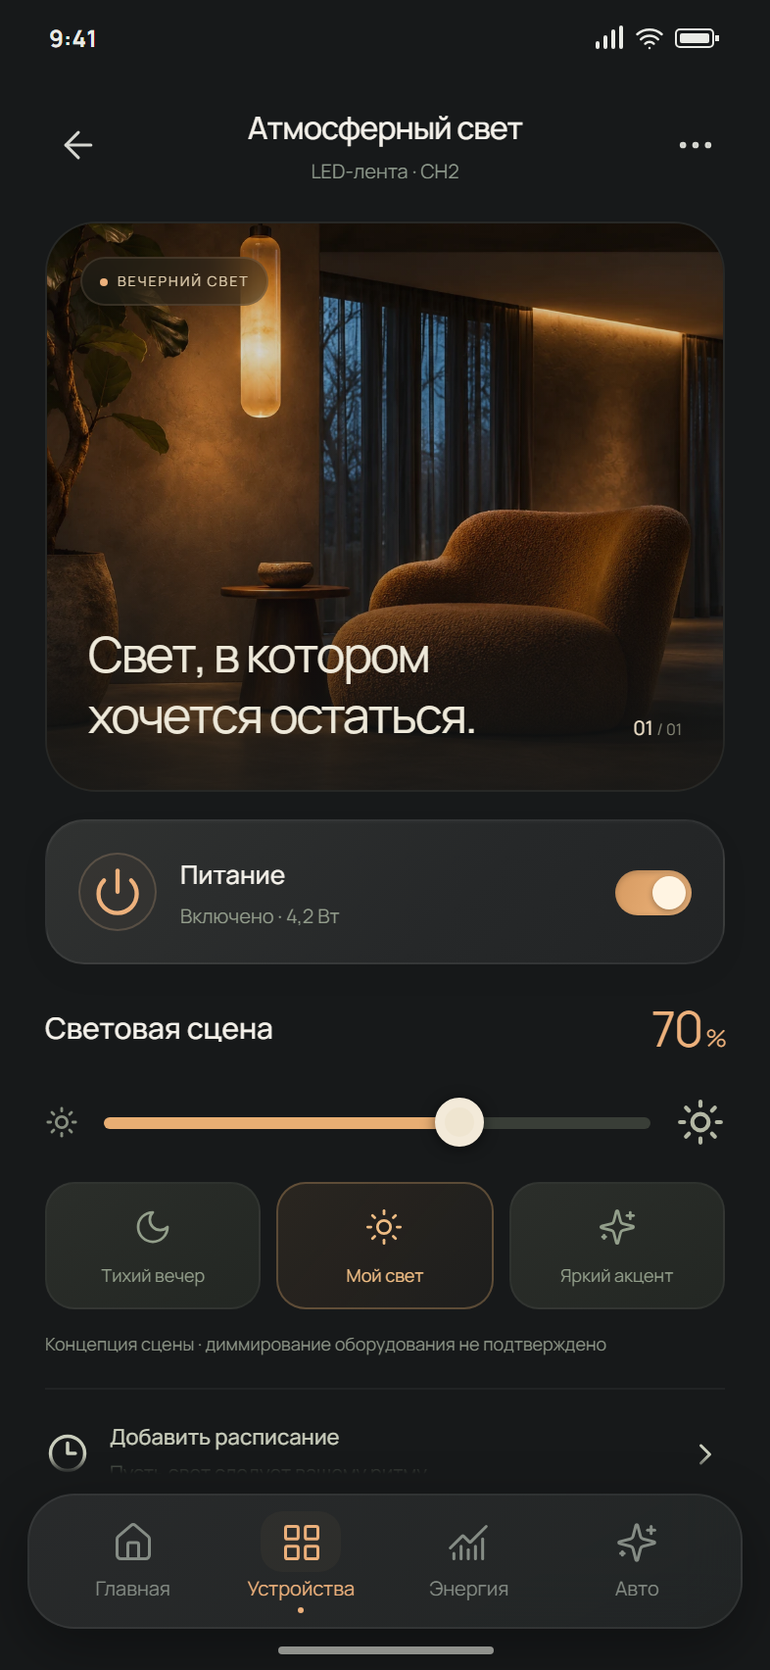
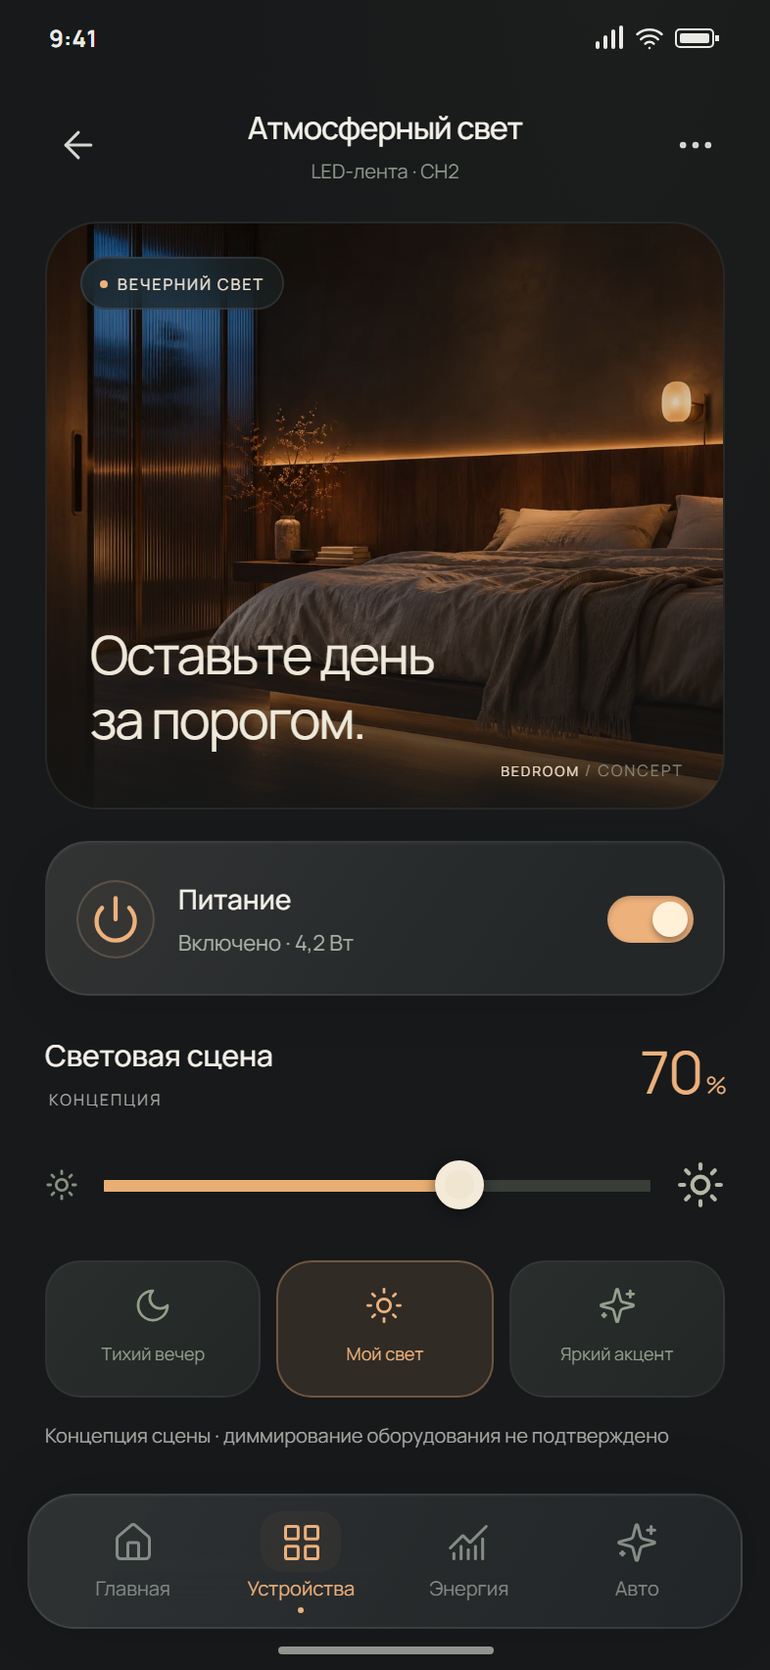
docs: retain V3 screenshots, provenance and honest platform boundaries

Changed region(s): [[0.0611, 0.1244, 0.9466, 0.8709], [0.7023, 0.7154, 0.855, 0.8709], [0.4275, 0.5599, 0.458, 0.591]]

diff --git a/docs/VERIFICATION.md b/docs/VERIFICATION.md
@@ -1,20 +1,41 @@
-# Delivery verification — 10 November 2026 (Asia/Bishkek)
+# Experience V3 verification — 10 November 2026, Asia/Bishkek
 
-Published app commit: `e51984f`. Successful GitHub Pages run: https://github.com/t1ktakdev/specwatt-experience/actions/runs/42684308003
+Stable starting point: `0623f3e`. Worktree: `SpecWATT-Experience-v3`, branch `codex/experience-v3`. The original SpecWATT repository and its Android application were read only.
 
-## Executed checks
+## QA 1 — Visual fidelity: completed locally
 
-- TypeScript and production Vite build: passed locally and on GitHub.
-- 6 domain tests: passed, including CH3 immutability, load-limit rejection, unknown connection states and coherent illustrative energy totals.
-- 12 routes at 320 / 393 / 440 CSS px: no checked horizontal overflow or JavaScript errors.
-- Browser scenarios: switching, blocked overload, unknown power offline, disabled commands, loading/error, scene presets, period changes, consent, saved/reloaded/deleted schedules and demo setup.
-- axe WCAG A/AA rules on the initial rendered view of all 12 routes: no reported violations after correcting three text contrast issues. This is not a claim of complete WCAG certification or manual screen-reader coverage.
-- Public deployment: HTTP 200, bundled Manrope loaded, interior image decoded, no HTTP failures or page errors; interaction smoke checks passed. See `live-verification.json`.
+Inspected the actual supplied Nahidul Islam and Sheikh Naeem reference images and real headless Chromium screenshots of all 12 routes. Preserved Warm Graphite / Ambient Amber and Manrope; refined surfaces, object scale, card hierarchy and touch controls. Corrected excessive Home / Analytics height, the planner empty-state density and catalogue caption tracking after visual inspection. Long-screen lower sections are captured separately. Subjective design review is not a claim of pixel identity to the references.
 
-## Visual passes
+## QA 2 — Asset diversity: passed
 
-1. Layout: inspected real headless-browser screenshots, corrected navigation overlap in analytics; confirmed three consumption rows visible at the primary mobile size.
-2. Craft: increased service text sizes, desaturated excess green in secondary screens, shortened the autopilot hero to expose the schedule action, corrected contrast and precise kWh formatting.
-3. Reference comparison: visually compared the four-screen composition with the supplied references for atmosphere, light, scale, hierarchy, photographic balance and surface depth. Final screenshots were taken after fixes, with finite animations fast-forwarded for deterministic capture.
+Welcome: unique architecture. Lighting: different bedroom and lighting composition. Home: dedicated SVG object. Three hero sources decode successfully and are distinct; no screen references the retained V1 `ambient-room.webp`. Small cards use SVG icons. Responsive WebP outputs: 63,940 / 69,372 bytes at 960w, 15,170 / 17,312 bytes at 480w. Provenance is in `ASSETS.md`; reference authors' artwork is not shipped. Sixteen exported/product SVG files parsed successfully as XML.
 
-The published preview remains a web prototype. No Figma import, physical ESP32 test, native Android validation or Kyrgyz localization is claimed. The official original SpecWATT repository was read but not edited.
+## QA 3 — Function and safety: passed
+
+- 12 Node unit tests, zero failures, no skips. New guards were first exercised by failing tests before implementation.
+- CH1 / CH2 / CH3 remain 1.8 / 4.2 / 2.4 W, limit 7 W. CH3 has no switch or schedule option.
+- Browser tests cover rejected 8.4 W load, unchanged power after rejection, valid switching, unknown connection states and disabled commands.
+- V3 tests cover editor/save/reload/pause, schedule load calculation and conflict refusal; final consent revocation; journal refusal event; keyboard chart selection; persisted reduced motion; unavailable real pairing and absence of controller network requests.
+- Plans are stored locally and never execute. Autopilot sends no background commands. Lighting brightness is a visual concept.
+
+## QA 4 — Figma ↔ code parity: NOT PERFORMED
+
+Direct plugin `whoami`: `MCP tool codex_apps/figma.whoami is not available to the model` (`isError: true`). Separately registered `figma-remote` failed initialization: `Auth required, when send initialize request`.
+
+No authenticated plan/file was resolved. No Figma file, edit, screenshot, import or parity result is claimed. `COMPONENT-MAP.md`, generated tokens and `design-export/` preserve a concrete transfer path. Code layers alone would not satisfy editable Design layer requirements.
+
+## QA 5 — Product validation: local passed; publication check pending
+
+- `npm run build`: TypeScript + generated tokens + production Vite build passed.
+- `npm run typecheck`, `npm run lint`, `npm test`: passed. Lint here is Prettier formatting, not an ESLint ruleset.
+- `node tools/qa.mjs`: 12 routes × 320 / 393 / 440 CSS px; no checked horizontal overflow or page errors. First pass found journal filter overflow at 320 px; fixed, final pass zero findings.
+- `node tools/qa-v3.mjs`: all seven extended scenario groups passed, zero console/page errors and HTTP failures.
+- `node tools/accessibility.mjs`: axe WCAG A/AA checks on the initial view of 12 routes, zero reported violations. No full WCAG certification or manual screen-reader claim.
+- `node tools/capture.mjs ...`: actual route screenshots, lower-content views, four-screen and 12-screen overview. Asset decode and bundled Manrope verified in the browser.
+- Published-site checks will be recorded after the release deployment completes. Local build is not treated as public verification.
+
+## Android scope
+
+Five actual native screen sources, native controls, safe-area shell, SVG instrument and guarded local hook were adapted in `native/`; TypeScript passed against installed React Native 0.88 / React 19.3 / safe-area / SVG definitions. The original app is not modified. No Metro bundle, APK, emulator/device rendering, native screen-reader test or fontScale 1.0 / 1.3 / 1.5 proof exists. Remaining native routes, Expo Router integration, persistence and real transport are explicitly pending.
+
+Kyrgyz localization, hardware telemetry, controller acknowledgements, tariff calculations and timed execution remain unimplemented in this Experience repository.

diff --git a/README.md b/README.md
@@ -1,13 +1,14 @@
-# SpecWATT — Energy, considered.
+# SpecWATT Experience V3 — Energy, considered.
 
 A standalone, interactive mobile experience in React + TypeScript. Warm graphite, ambient amber, original interior imagery, local Manrope fonts and real SVG iconography. Built separately from the original SpecWATT application.
 
-**Web prototype. No Figma file has been created or imported. No hardware is connected.**
+**Working web prototype + isolated native UI sources. No Figma file has been created or imported. No hardware is connected; no APK has been built.**
 
 ## Open
 
 - Published prototype: https://t1ktakdev.github.io/specwatt-experience/
 - Four-screen overview: https://t1ktakdev.github.io/specwatt-experience/?gallery
+- All 12 screens: https://t1ktakdev.github.io/specwatt-experience/?gallery=all
 - Open a screen directly with `#home`, `#lighting`, `#energy`, etc.
 
 ## Run locally
@@ -27,7 +28,12 @@ npm run build
 npx playwright install chromium
 node tools/qa.mjs
 node tools/accessibility.mjs
+node tools/qa-v3.mjs
 node tools/verify-live.mjs
+npm run lint
+npm run export:vectors
+npm ci --prefix native --ignore-scripts
+npm run typecheck --prefix native
 ```
 
 The browser checks use a separate, headless Chromium process. They never control the user's browser or desktop. `artifacts/` contains generated screenshots and QA evidence and is ignored by Git.
@@ -40,18 +46,22 @@ The browser checks use a separate, headless Chromium process. They never control
 - CH3 is always protected; there is no switch or schedule option.
 - 8.4 W simultaneous load is rejected against the 7 W demo limit.
 - Autopilot requires explicit channel consent. It sends no background commands.
-- Schedules can be added, toggled, deleted and retained in localStorage. They do not execute.
+- Schedules can be added, edited, toggled, deleted and retained in localStorage. The timeline uses their nominal loads and rejects overlaps above 7 W. They do not execute.
 - The scene dimmer changes the image presentation only. Hardware dimming is not confirmed.
 - Energy periods and graph selection are interactive. All history and comparisons are demo values; no actual tariff or savings claims.
-- Setup demonstrates the connection flow and does not send requests to the entered address.
-- The event journal records local prototype actions for the current session.
+- Setup distinguishes demo and real-controller paths. Hardware pairing is explicitly unavailable; no requests are sent to the entered address.
+- The event journal records local switches, overload refusals, consent and schedule actions for the current session.
 - All persistence is local to the browser. No analytics, accounts or remote telemetry.
 
 ## Source & handoff
 
-Reusable components live in `src/components/`, screen modules in `src/screens/`, domain guards in `src/model.ts`, context in `src/state/`. `design-tokens.json` documents the semantic palette, type ramp, radii, spacing and motion. Editable source assets include SVG charts, icons and product illustration; the only bitmap UI asset is the original interior image.
+Reusable components live in `src/components/`, screen modules in `src/screens/`, domain guards in `src/model.ts`, schedule validation in `src/lib/planner.ts`, context in `src/state/`. `design-tokens.json` generates `src/tokens.css` and `native/tokens.ts` during build. Welcome and Lighting use distinct original interiors; Home uses a dedicated SVG object. `design-export/` contains editable icons and product vectors rendered from actual components.
+
+`native/` contains five adapted React Native screens, shared controls and a guarded local demo hook for the existing Expo 58 / RN 0.88 stack. These sources pass TypeScript checks but are not integrated, bundled or device-validated. See `native/README.md` and `docs/COMPONENT-MAP.md` for the actual boundary and transfer mapping.
 
 `DESIGN.md` records the reference principles, confirmed product scope and documented Figma import routes. With an authorized official Figma MCP connection, capture the published screen routes using Code to canvas, then add component instances, auto-layout and variable bindings with `use_figma`. A browser capture alone does not produce a fully componentized Figma design system.
+
+V3 technical check: plugin `whoami` returns `MCP tool codex_apps/figma.whoami is not available to the model`; separately registered `figma-remote` fails initialization with `Auth required, when send initialize request`. Figma parity QA remains unperformed.
 
 See `ASSETS.md` and `licenses/` for asset provenance.
 

diff --git a/DESIGN.md b/DESIGN.md
@@ -2,6 +2,20 @@
 
 Самостоятельный интерактивный веб-прототип, не обновление React Native приложения и не Figma-файл.
 
+V3 развивает исходную версию `0623f3e`, сохраняя маршруты и поведение. Добавлен изолированный набор исходников React Native в `native/`; основной Android-проект не изменён. Он не считается готовым приложением или проверенной нативной копией.
+
+## V3 / производственные изменения
+
+- Welcome: отдельный архитектурный холл, бронзовый свет и травертин; эмоциональный порог продукта.
+- Home: инструмент мощности, явный резерв, SVG-объект вместо повторной фотографии, номиналы в карточках.
+- Lighting: самостоятельная спальня и световая архитектура; концептуальная яркость отделена от питания канала.
+- Energy: согласованные единицы, выбор интервала с клавиатуры, доли каналов и приблизительные объёмы. Неподтверждённое сравнение экономии удалено.
+- Devices / Detail / CH3: каталог, отдельный предметный вектор, история канала и самостоятельный язык защиты.
+- Autopilot / Planner: явное разрешение, пример предполагаемого правила, редактирование плана и расчёт пересечений. Фоновых команд нет.
+- Journal / Setup / Settings: типы событий, реальные действия текущей сессии, разные пути демо и контроллера, постоянная настройка уменьшения движения и видимый блок безопасности.
+
+Основные цвета, радиусы и типографическая шкала исходят из `design-tokens.json`. `npm run tokens` создаёт CSS и native-спецификацию. `docs/COMPONENT-MAP.md` фиксирует сопоставление, включая ещё не созданные Figma-назначения.
+
 ## Дизайн-контракт
 
 1. Четыре основных экрана имеют разные смысловые центры: интерьер, текущая мощность, световая сцена, график энергии.
@@ -33,4 +47,4 @@
 - https://developers.figma.com/docs/figma-mcp-server/remote-server-installation/ — официальный endpoint https://mcp.figma.com/mcp, требуется авторизация поддерживаемого клиента.
 - https://developers.figma.com/docs/rest-api/ — REST не предоставляет универсальный create/edit API для узлов холста.
 
-В этой сессии инструменты приложения Figma недоступны. Локальная конфигурация содержит figma-remote, но сервер не подключён к инструментам текущей сессии (unknown MCP server). Авторизация не запускалась, браузер не открывался. Старый файл YZ6V1EF1KWJ8QnOIFYemXk не изменён. Прототип не считается импортированным в Figma.
+Повторная техническая проверка V3: прямой `whoami` подключённого плагина вернул `MCP tool codex_apps/figma.whoami is not available to the model`. Отдельный `figma-remote` зарегистрирован, но инициализация завершилась ошибкой `Auth required, when send initialize request`. Создание, редактирование и получение снимков Figma не подтверждены; файл не создан. Старый файл YZ6V1EF1KWJ8QnOIFYemXk не изменён. QA 4 не выполнен.

diff --git a/docs/COMPONENT-MAP.md b/docs/COMPONENT-MAP.md
@@ -1,0 +1,39 @@
+# React ↔ native ↔ Figma handoff
+
+Figma is unavailable in this Codex session. All destinations below are **planned names**, not existing Figma nodes or Code Connect mappings. No two-way synchronization is claimed.
+
+| Web source                                        | Native source                                 | Planned Figma destination           |
+| ------------------------------------------------- | --------------------------------------------- | ----------------------------------- |
+| `design-tokens.json` → `src/tokens.css`           | generated `native/tokens.ts`                  | Foundations / Tokens                |
+| `components/ui.tsx` / Primary, Toggle, DeviceCard | NativeButton, NativeDeviceTile, native Switch | Components / States                 |
+| `components/ui.tsx` / ConnectionBanner            | SourceLabel / unknown data display            | Edge Cases / Safety                 |
+| `components/charts.tsx` / PowerGauge              | NativePower                                   | Components / Power instrument       |
+| `screens/Welcome.tsx`                             | NativeWelcome                                 | Main Screens / Welcome              |
+| `screens/Home.tsx`                                | NativeHome                                    | Main Screens / Home                 |
+| `screens/Lighting.tsx`                            | NativeLighting                                | Main Screens / Lighting             |
+| `screens/Energy.tsx`                              | NativeEnergy                                  | Main Screens / Energy               |
+| Devices, DeviceDetail                             | tile primitives only                          | Extended Screens / Devices / Detail |
+| Protected                                         | NativeProtected                               | Edge Cases / Safety / CH3           |
+| Autopilot, Planner, Journal, Settings             | pending                                       | Extended Screens                    |
+| Setup (3 steps, demo/hardware choice)             | pending                                       | Onboarding & Connection             |
+
+## Shared states
+
+- Toggle: off, on, disabled; 44 CSS px touch area (native 48 dp wrapper).
+- DeviceCard: on, off, unknown connection; nominal W derived from shared model.
+- PowerGauge: current value or unknown. Unknown never becomes 0 W.
+- Autopilot: permission required, allowed, paused/unavailable; no background actuation.
+- Schedule: empty, editor, validation error, saved, paused, edited, no plans on selected day.
+- CH3: protected in all connection states, no actuation component.
+- Connection: online local demo, offline, loading, error.
+
+## Supported transfer when authentication returns
+
+1. Verify a direct successful `whoami` and resolve the actual plan.
+2. Create `SpecWATT — Experience V3 · Premium Product Design`.
+3. Use the available official Code to Canvas capture workflow on the working route URLs. `send_code_to_figma` alone creates code layers, not native design shapes; it does not satisfy editability.
+4. Establish semantic variables, text styles, component variants and auto-layout using supported `use_figma` APIs. Use the source component/state matrix above.
+5. Assign imported image fills from the same WebP files. Import `design-export/` icons and product vectors.
+6. Record real file/node IDs here; take Figma screenshots and compare at 393 CSS px equivalent with code screenshots. Resolve typography, spacing, image crop and state differences. Only then mark QA 4 passed.
+
+`npm run export:vectors` renders editable SVG source from actual React components. It is not a Figma import and does not export entire screens as bitmaps disguised as editable designs.

diff --git a/ASSETS.md b/ASSETS.md
@@ -1,5 +1,29 @@
 # Assets & rights
 
+## Experience V3 library
+
+| Asset                                                          | Purpose                                                           | Output                                              |
+| -------------------------------------------------------------- | ----------------------------------------------------------------- | --------------------------------------------------- |
+| `welcome-architecture.webp`                                    | Welcome only: architectural threshold, travertine, bronze pendant | 960 × 1440, 63,940 bytes; 480w variant 15,170 bytes |
+| `lighting-bedroom.webp`                                        | Lighting only: walnut headboard, grazing light, floating bed      | 960 × 1200, 69,372 bytes; 480w variant 17,312 bytes |
+| `evening-object.svg`                                           | Home only: sculptural glass / bronze object                       | editable code-native vector, 1,741 bytes            |
+| `design-export/lamp-on.svg`, `lamp-off.svg`, `power-gauge.svg` | Device detail and design handoff                                  | exported from actual React SVG components           |
+| `design-export/icons/*.svg`                                    | curated Lucide controls / safety icons                            | 12 editable SVGs, ISC license                       |
+
+Both V3 interiors are original AI-generated concept scenes produced with the built-in `image_gen` tool on 10 November 2026. They contain no UI, lettering or hardware claims. No reference artist's image is included in published assets. Generated PNG masters remain in the local Codex generated_images directory; optimized responsive WebP copies are in this repository. Photography is used on two distinct routes; small device cards use vector icons.
+
+### Welcome generation specification
+
+Photorealistic editorial architectural photograph, portrait 2:3. Quiet double-height entrance and reading alcove at dusk, warm graphite travertine and smoked oak, sweeping wall, low ivory upholstered bench, single bronze disk pendant, narrow blue-hour window, floor-washing lights and concealed amber cove. Sculptural geometry, generous lower dark space, believable 2700K bounce, detailed shadows, restrained grade and fine grain. No living-room sofa, armchair, people, text, UI, logo or montage. Native master: `exec-d10db52b-c1b7-42e1-8aca-15b8fcd9f7de.png`.
+
+### Lighting generation specification
+
+Photorealistic editorial bedroom, portrait 4:5, diagonal doorway camera. Low floating bed with warm-grey linen at lower right, smoked walnut headboard, graphite plaster, horizontal recessed amber light, under-bed light, small opal wall sconce, ribbed bronze screen and blue-hour light at left. Realistic materials and pools of 2700K light, detailed shadows, subtle grain. No pendant, chair, sofa, living room, people, text, UI or logo. Native master: `exec-d4b90e04-7a43-44c5-a173-65ea84d42723.png`.
+
+### Previous assets retained
+
+`ambient-room.webp` remains as the V1 source asset for rollback. **No V3 screen references it.**
+
 - `public/assets/ambient-room.webp`: original image generated for this prototype with the built-in `image_gen` tool; no reference artist's photograph was copied. Generated PNG remains in the local Codex generated_images directory; the project contains a WebP copy (quality 90). It is an editorial concept image, not a photograph of actual SpecWATT hardware.
 - Icons: `lucide-react`, ISC license, retained in `licenses/`.
 - Manrope: Mikhail Sharanda and contributors, SIL Open Font License 1.1, retained in `licenses/`. Cyrillic and Latin webfonts are bundled locally through `@fontsource/manrope`.

diff --git a/CHANGELOG.md b/CHANGELOG.md
@@ -1,0 +1,10 @@
+# Changelog
+
+## 1.1.0 — Experience V3 — 2026-11-10
+
+- Distinct original architectural Welcome and bedroom Lighting visuals, plus a lightweight vector object on Home.
+- Refined flagship and extended screen compositions, touch controls, semantic states and explicit demo boundaries.
+- Editable local schedules, nominal load timeline and rejection of unsafe overlaps; validation of stored channel state, consent and schedules.
+- Session journal includes actual manual actions, load refusals, consent and plan changes. Removed unsupported savings comparison.
+- Generated shared tokens, editable SVG export and isolated React Native UI kit for five screens; no Android build or hardware integration.
+- Extended headless QA and retained screenshots. Figma authentication is still unavailable in this session.
